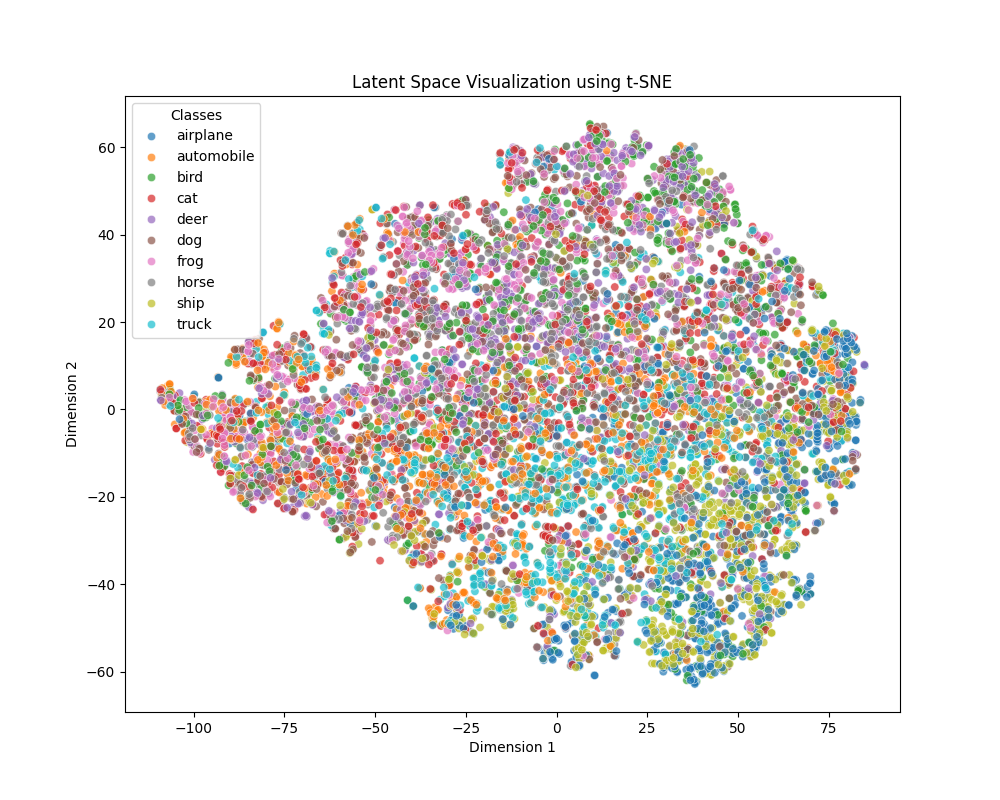
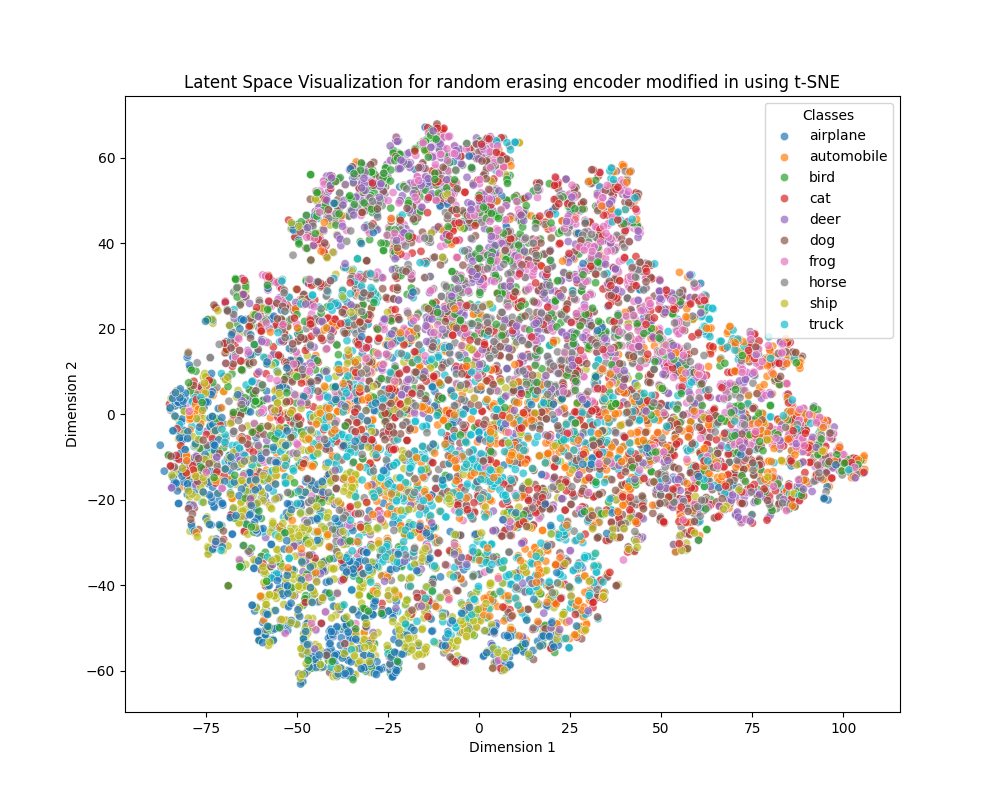
[CODE] - Final commit

diff --git a/run.py b/run.py
@@ -15,14 +15,14 @@ parser.add_argument('-data', metavar='DIR', default='./datasets',
                     help='path to dataset')
 parser.add_argument('-dataset-name', default='cifar10',
                     help='dataset name', choices=['stl10', 'cifar10'])
-parser.add_argument('-a', '--arch', metavar='ARCH', default='resnet50',
+parser.add_argument('-a', '--arch', metavar='ARCH', default='resnet18',
                     choices=model_names,
                     help='model architecture: ' +
                          ' | '.join(model_names) +
                          ' (default: resnet50)')
 parser.add_argument('-j', '--workers', default=32, type=int, metavar='N',
                     help='number of data loading workers (default: 32)')
-parser.add_argument('--epochs', default=800, type=int, metavar='N',
+parser.add_argument('--epochs', default=100, type=int, metavar='N',
                     help='number of total epochs to run')
 parser.add_argument('-b', '--batch-size', default=1024, type=int,
                     metavar='N',
@@ -41,7 +41,7 @@ parser.add_argument('--disable-cuda', action='store_true',
 parser.add_argument('--fp16-precision', default=True, action='store_true',
                     help='Whether or not to use 16-bit precision GPU training.')
 
-parser.add_argument('--out_dim', default=128, type=int,
+parser.add_argument('--out_dim', default=512, type=int,
                     help='feature dimension (default: 128)')
 parser.add_argument('--log-every-n-steps', default=100, type=int,
                     help='Log every n steps')

diff --git a/latent_space_vis.py b/latent_space_vis.py
@@ -39,7 +39,7 @@ def visualize_latent_space(model_checkpoint, base_model, out_dim, data_loader, d
     # Plotting
     plt.figure(figsize=(10, 8))
     sns.scatterplot(x=features_2d[:, 0], y=features_2d[:, 1], hue=label_names, hue_order=CLASS_NAMES, palette='tab10', legend='full', alpha=0.7)
-    plt.title('Latent Space Visualization for trained encoder using t-SNE')
+    plt.title('Latent Space Visualization for random erasing encoder modified in using t-SNE')
     plt.xlabel('Dimension 1')
     plt.ylabel('Dimension 2')
     plt.legend(title='Classes')
@@ -50,8 +50,8 @@ def visualize_latent_space(model_checkpoint, base_model, out_dim, data_loader, d
 
 if __name__ == "__main__":
     # Define parameters
-    model_checkpoint_path = f'runs/checkpoint_4LP/final_tocho_02.pth.tar' # Path to the trained model checkpoint
-    figure_name = "final_TSNE_resnet50_tocho_02"  # Name for the saved figure
+    model_checkpoint_path = f'runs/checkpoint_4LP/data_aug_random_erasing.pth.tar' # Path to the trained model checkpoint
+    figure_name = "data_aug_random_erasing"  # Name for the saved figure
     base_model = 'resnet50'
     out_dim = 128
     batch_size = 256

diff --git a/run_lp.py b/run_lp.py
@@ -17,7 +17,7 @@ parser.add_argument('-data', metavar='DIR', default='./datasets',
                     help='path to dataset')
 parser.add_argument('-dataset-name', default='cifar10',
                     help='dataset name', choices=['stl10', 'cifar10'])
-parser.add_argument('-a', '--arch', metavar='ARCH', default='resnet50',
+parser.add_argument('-a', '--arch', metavar='ARCH', default='resnet18',
                     choices=model_names,
                     help='model architecture: ' +
                          ' | '.join(model_names) +
@@ -103,7 +103,7 @@ def main():
 
     # model checkpoint without training  
     # checkpoint_path = f'runs/checkpoint_4LP/initial_checkpoint_feb04_1834.pth.tar'
-    checkpoint_path = f'runs/checkpoint_4LP/data_aug_random_erasing_02.pth.tar'
+    checkpoint_path = f'runs/checkpoint_4LP/try_excede.pth.tar'
     
     # model checkpoint with training
     #checkpoint_path = f'runs/checkpoint_4LP/final_checkpoint_resnet50_01.pth.tar'
